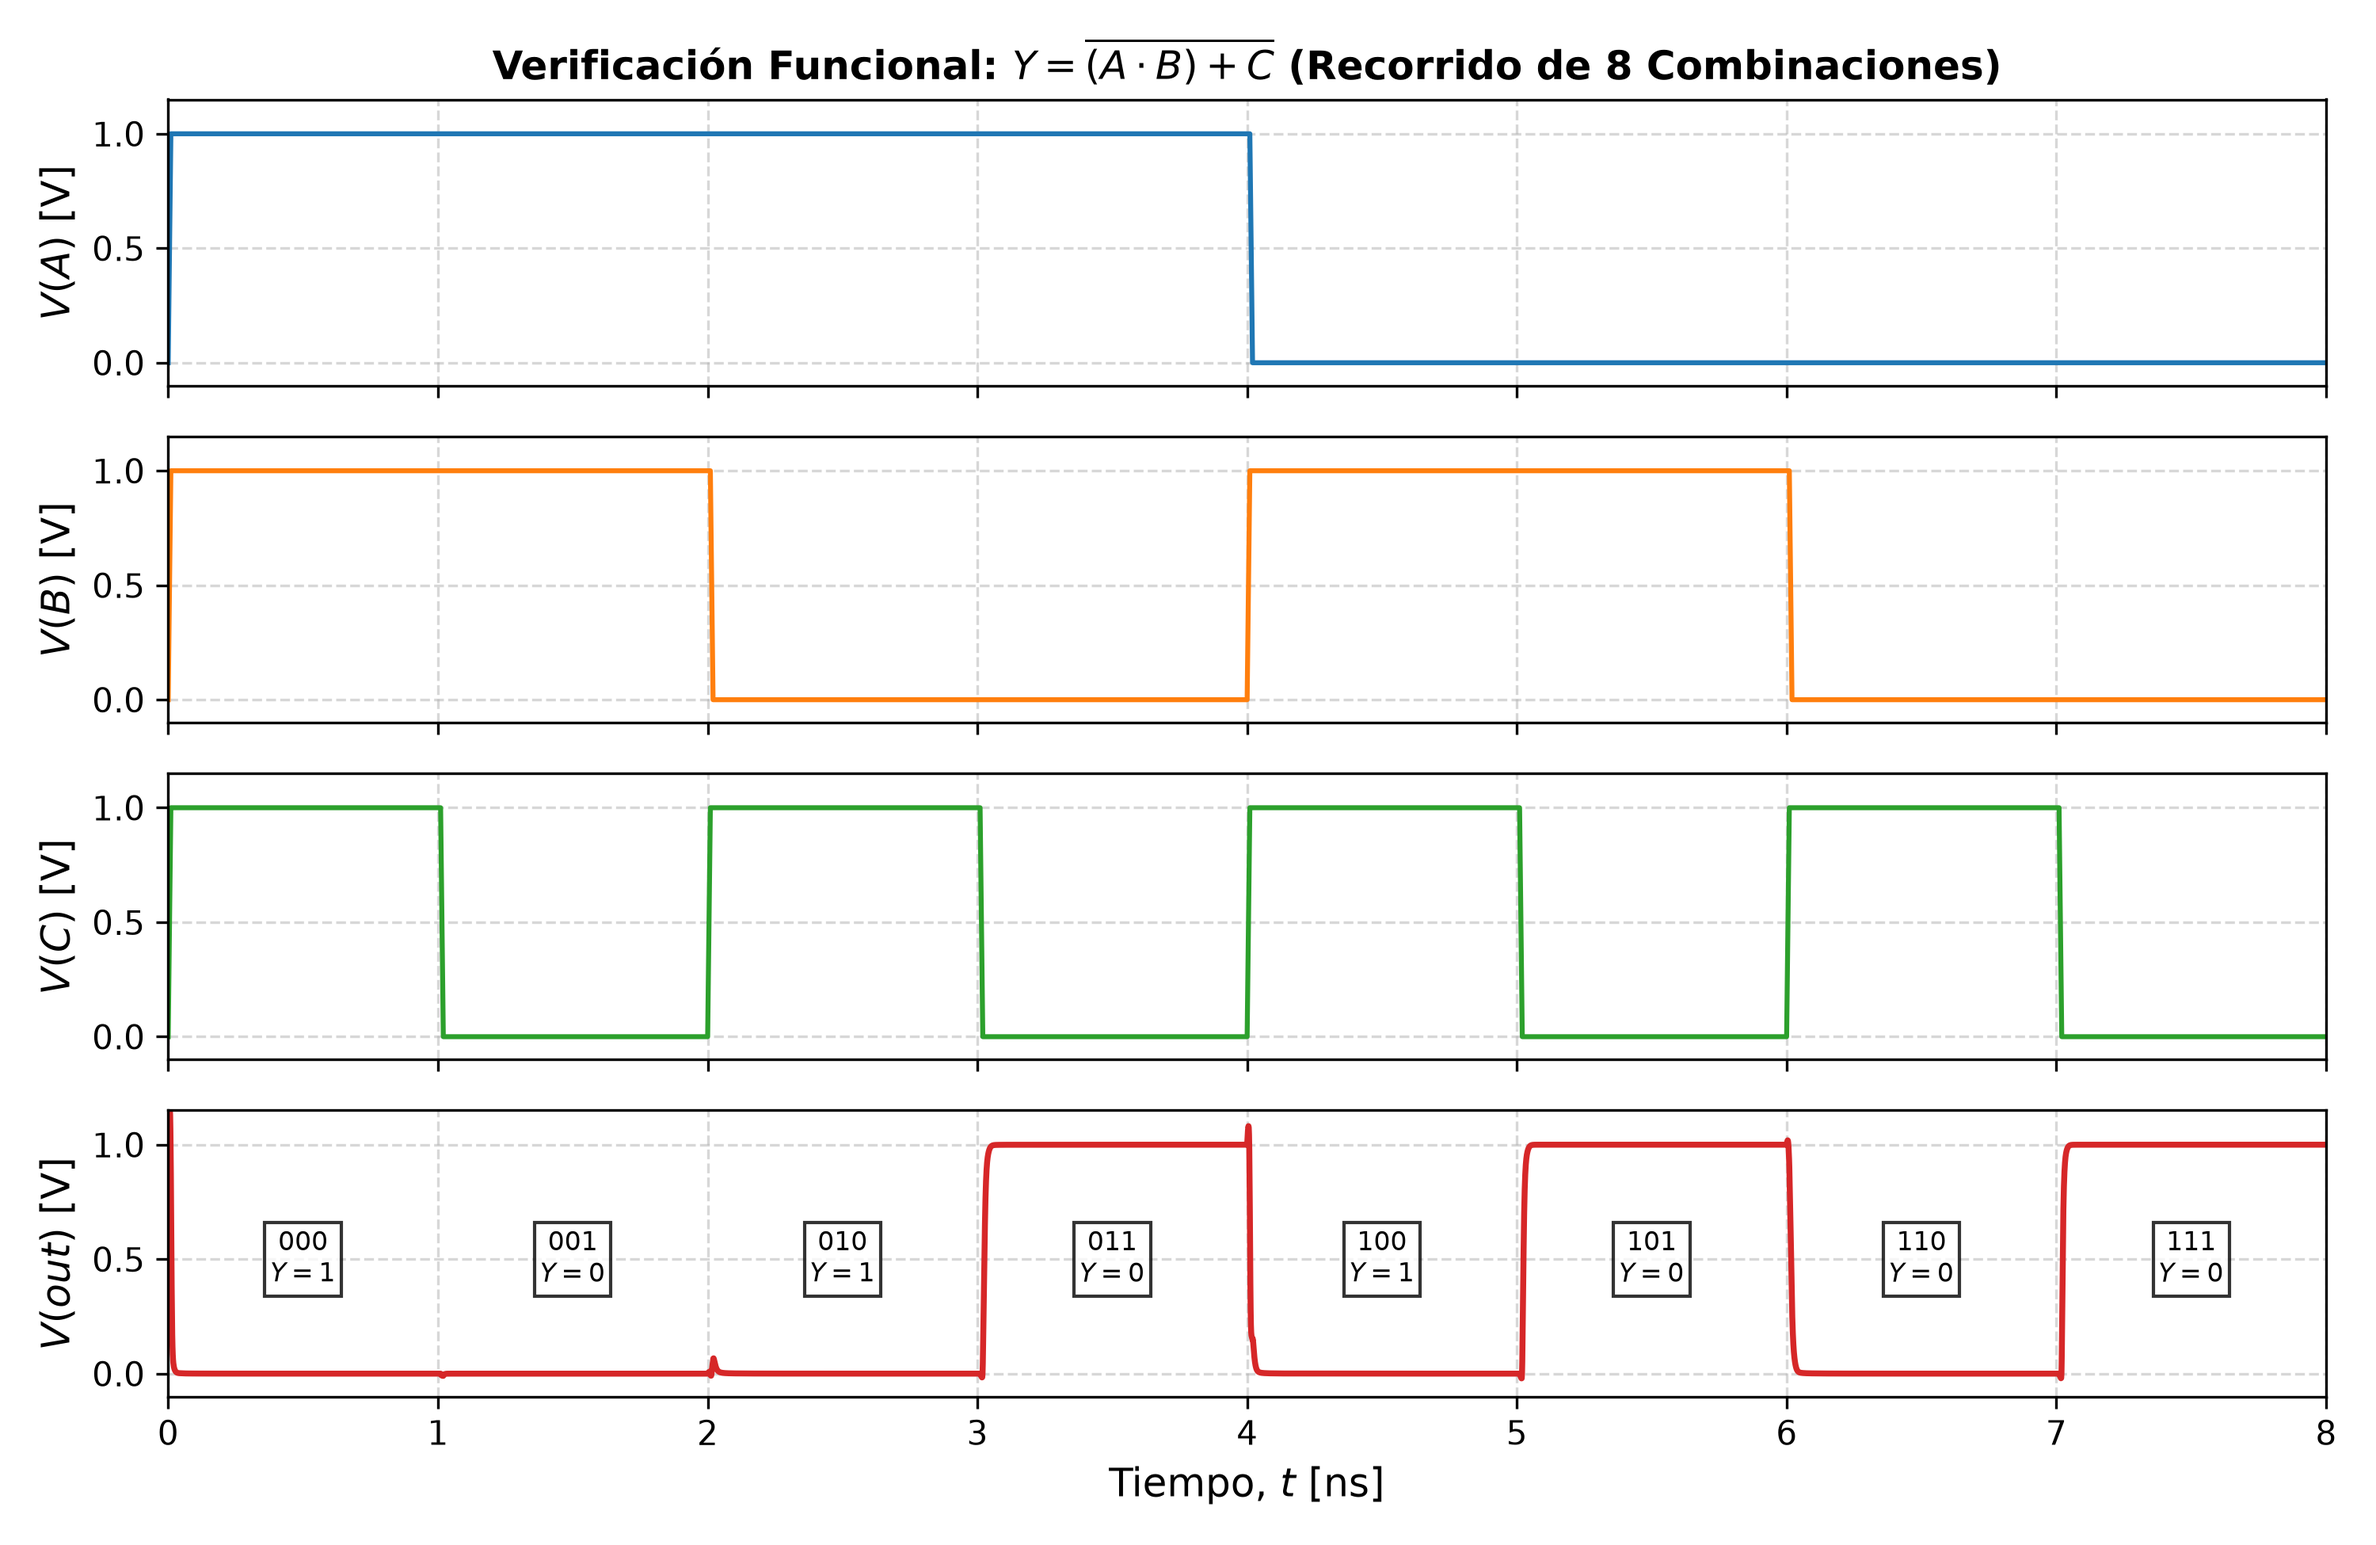
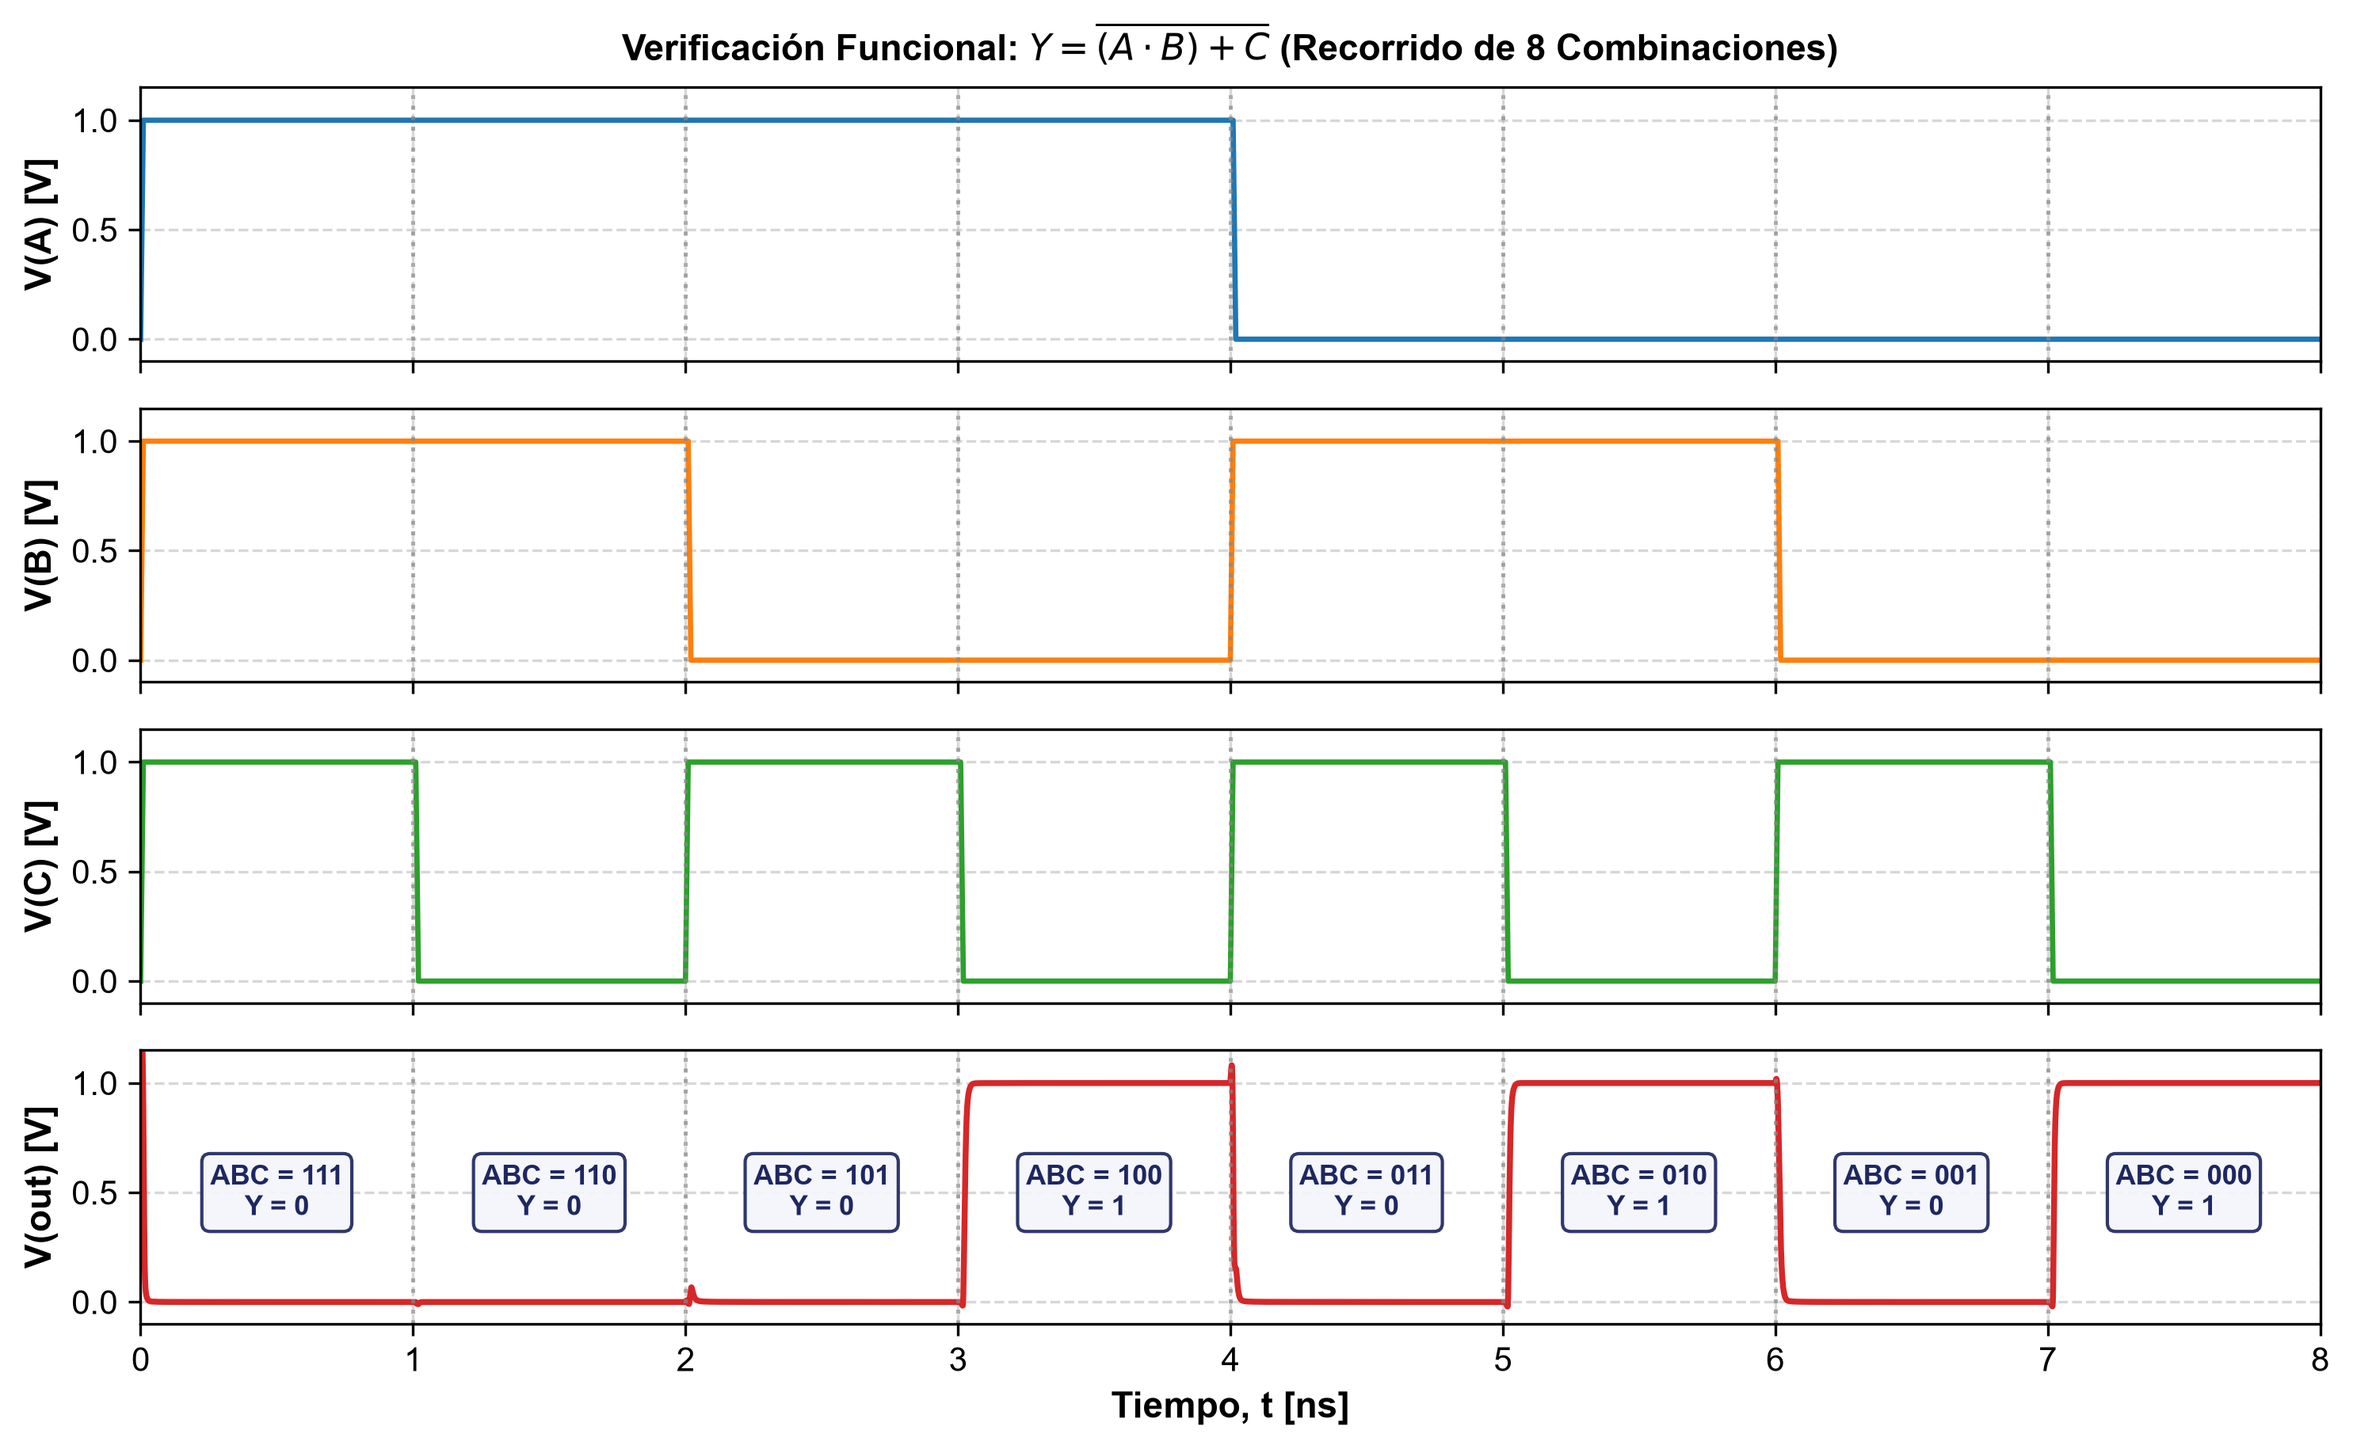
fix(actividad4): corregir rotulacion de estados en fig3 y aclarar limitacion del estimulo para tpHL peor caso

diff --git a/LD1_Arcila_Yactayo/scripts/generar_fig3.py b/LD1_Arcila_Yactayo/scripts/generar_fig3.py
@@ -1,0 +1,91 @@
+import os
+import matplotlib.pyplot as plt
+
+plt.rcParams.update({
+    'font.family': 'sans-serif',
+    'font.sans-serif': ['Arial', 'DejaVu Sans', 'Helvetica'],
+    'font.size': 10,
+    'axes.labelsize': 11,
+    'axes.titlesize': 11,
+    'figure.titlesize': 13,
+    'figure.autolayout': True,
+    'grid.alpha': 0.5,
+    'grid.linestyle': '--'
+})
+
+output_dir = r"G:\Proyectos\MicroNano\LD1_Arcila_Yactayo\informe_latex\figuras"
+cg_raw = r"G:\Proyectos\MicroNano\LD1_Arcila_Yactayo\simulaciones\A4_Compuerta_Compleja\A4_ComplexGate.raw"
+
+with open(cg_raw, 'r', errors='ignore') as f:
+    cg_lines = f.readlines()
+
+val_idx = 0
+for idx, line in enumerate(cg_lines):
+    if line.startswith('Values:'):
+        val_idx = idx + 1
+        break
+
+cg_data = cg_lines[val_idx:]
+t_list, va_list, vb_list, vc_list, vout_list = [], [], [], [], []
+
+i = 0
+while i < len(cg_data):
+    parts = cg_data[i].split()
+    if len(parts) >= 2:
+        t_val = float(parts[1])
+        va_val = float(cg_data[i+1].split()[0])
+        vb_val = float(cg_data[i+2].split()[0])
+        vc_val = float(cg_data[i+3].split()[0])
+        vout_val = float(cg_data[i+4].split()[0])
+        
+        t_list.append(t_val * 1e9)
+        va_list.append(va_val)
+        vb_list.append(vb_val)
+        vc_list.append(vc_val)
+        vout_list.append(vout_val)
+        i += 7
+    else:
+        i += 1
+
+fig, axs = plt.subplots(4, 1, figsize=(10, 6.2), sharex=True, dpi=300)
+
+axs[0].plot(t_list, va_list, color='#1f77b4', linewidth=1.6)
+axs[0].set_ylabel('V(A) [V]', fontweight='bold')
+axs[0].set_ylim(-0.1, 1.15)
+axs[0].grid(True)
+axs[0].set_title(r'Verificación Funcional: $Y = \overline{(A \cdot B) + C}$ (Recorrido de 8 Combinaciones)', fontweight='bold', pad=8)
+
+axs[1].plot(t_list, vb_list, color='#ff7f0e', linewidth=1.6)
+axs[1].set_ylabel('V(B) [V]', fontweight='bold')
+axs[1].set_ylim(-0.1, 1.15)
+axs[1].grid(True)
+
+axs[2].plot(t_list, vc_list, color='#2ca02c', linewidth=1.6)
+axs[2].set_ylabel('V(C) [V]', fontweight='bold')
+axs[2].set_ylim(-0.1, 1.15)
+axs[2].grid(True)
+
+axs[3].plot(t_list, vout_list, color='#d62728', linewidth=1.8)
+axs[3].set_ylabel('V(out) [V]', fontweight='bold')
+axs[3].set_ylim(-0.1, 1.15)
+axs[3].set_xlabel('Tiempo, t [ns]', fontweight='bold')
+axs[3].grid(True)
+
+estados = ['111', '110', '101', '100', '011', '010', '001', '000']
+y_esperados = [0, 0, 0, 1, 0, 1, 0, 1]
+
+for ax in axs:
+    for t_div in range(1, 8):
+        ax.axvline(t_div, color='#888888', linestyle=':', alpha=0.7, linewidth=1.2)
+
+for idx, (est, y_esp) in enumerate(zip(estados, y_esperados)):
+    t_center = idx + 0.5
+    axs[3].text(t_center, 0.5, f'ABC = {est}\nY = {y_esp}', ha='center', va='center',
+                fontsize=8.5, fontweight='bold', color='#1E2761',
+                bbox=dict(boxstyle='round,pad=0.3', facecolor='#F4F6FB', edgecolor='#1E2761', alpha=0.92, lw=1.0))
+
+plt.xlim(0, 8.0)
+out_path = os.path.join(output_dir, 'fig3_transitorio_compleja.png')
+plt.savefig(out_path, bbox_inches='tight')
+plt.close()
+print("Guardado con exito fig3_transitorio_compleja.png")

diff --git a/LD1_Arcila_Yactayo/informe_latex/LD1.tex b/LD1_Arcila_Yactayo/informe_latex/LD1.tex
@@ -458,16 +458,17 @@ Se sintetiza la función inversora $Y = \overline{(A \cdot B) + C}$ mediante ló
 \FloatBarrier
 
 \subsection*{Verificación funcional y casos críticos de retardo}
-Se verificó el barrido de las ocho combinaciones de entrada en 8~ns (Figura~\ref{fig:compleja}):
+La Figura~\ref{fig:compleja} presenta el barrido de las ocho combinaciones de entrada en 8~ns ($111$ a $000$) según el Anexo~\ref{sec:a4}, verificando rigurosamente la tabla de verdad ($Y=1$ únicamente para $100$, $010$ y $000$):
 \begin{itemize}[leftmargin=1.6em,itemsep=0.2em]
-  \item \textbf{Peor caso de descarga ($t_{pHL}$):} Transición hacia $ABC = 110$ ($t_{pHL} = 10.42$~ps), donde la corriente fluye exclusivamente por la rama serie $MN_A - MN_B$ a través del nodo intermedio $n_{ab}$. El mejor caso ocurre en $ABC = 111$ ($t_{pHL} = 5.86$~ps) al descargar por ambas ramas en paralelo.
-  \item \textbf{Peor caso de carga ($t_{pLH}$):} Transición donde conduce un único PMOS de la rama paralela en serie con $C$ ($ABC = 010$ o $100$, $t_{pLH} = 11.18$~ps). El mejor caso ocurre en $ABC = 000$ ($t_{pLH} = 8.74$~ps) con $MP_A$ y $MP_B$ conduciendo simultáneamente.
+  \item \textbf{Peor caso de carga ($t_{pLH}$):} Se mide directamente en la conmutación de $t = 3\text{~ns}$ ($101 \to 100$, $t_{pLH} = 9.27$~ps) y $t = 5\text{~ns}$ ($011 \to 010$, $t_{pLH} = 7.84$~ps), donde la corriente fluye por el camino más resistivo de la PUN ($MP_C$ en serie con un solo PMOS en paralelo). El mejor caso ocurre en $t = 7\text{~ns}$ ($001 \to 000$, $t_{pLH} = 6.47$~ps) al conducir ambas ramas PMOS en paralelo.
+  \item \textbf{Análisis crítico de descarga ($t_{pHL}$):} El peor caso teórico ocurre al descargar exclusivamente por la rama serie $MN_A - MN_B$ ($ABC = 110$). Sin embargo, en el barrido continuo del Anexo~\ref{sec:a4}, el estado $110$ es precedido por $111$, por lo que la salida ya se encontraba en 0~V y no existe transición de bajada en esa ventana. Las caídas observadas en el barrido ($t = 4\text{~ns}$ y $t = 6\text{~ns}$) descargan por el transistor rápido $MN_C$ ($t_{pHL} = 6.92$~ps y $10.43$~ps).
+  \item \textbf{Medición dedicada del peor caso $t_{pHL}$:} Excitando un escalón hacia $110$ desde un estado alto previo ($010 \to 110$ o $100 \to 110$), la descarga fluye exclusivamente por la rama serie, obteniéndose $t_{pHL} = 13.19$~ps para la entrada externa ($A$) y $t_{pHL} = 14.39$~ps para la interna ($B$, penalizada por la precarga del nodo intermedio $n_{ab}$ y efecto cuerpo en $MN_A$).
 \end{itemize}
 
 \begin{figure}[htbp]
 \centering
 \includegraphics[width=0.74\textwidth]{figuras/fig3_transitorio_compleja.png}
-\caption{Respuesta transitoria de la compuerta compleja $Y = \overline{(A \cdot B) + C}$ ante el barrido de las 8 combinaciones binarias ($000$ a $111$) en 8~ns.}
+\caption{Respuesta transitoria de la compuerta compleja $Y = \overline{(A \cdot B) + C}$ ante el barrido de las 8 combinaciones binarias ($111$ a $000$) en 8~ns.}
 \label{fig:compleja}
 \end{figure}
 \FloatBarrier

diff --git a/LD1_Arcila_Yactayo/scripts/generar_graficas.py b/LD1_Arcila_Yactayo/scripts/generar_graficas.py
@@ -30,8 +30,8 @@ os.makedirs(output_dir, exist_ok=True)
 def read_raw_lines(path):
     with open(path, 'rb') as f:
         raw_bytes = f.read()
-    if len(raw_bytes) > 2 and raw_bytes[1] == 0:
-        return raw_bytes.decode('utf-16le').splitlines(True)
+    if b'\x00' in raw_bytes[:100]:
+        return raw_bytes.decode('utf-16le', errors='ignore').splitlines(True)
     return raw_bytes.decode('utf-8', errors='ignore').splitlines(True)
 
 # -------------------------------------------------------------
@@ -203,16 +203,22 @@ axs[3].set_ylim(-0.1, 1.15)
 axs[3].set_xlabel('Tiempo, $t$ [ns]')
 axs[3].grid(True)
 
-# Anotaciones de estados
-estados = ["000", "001", "010", "011", "100", "101", "110", "111"]
-y_esperados = [1, 0, 1, 0, 1, 0, 0, 0]
+# Anotaciones de estados y separadores verticales sincronizados
+estados = ["111", "110", "101", "100", "011", "010", "001", "000"]
+y_esperados = [0, 0, 0, 1, 0, 1, 0, 1]
+
+for ax in axs:
+    for t_div in range(1, 8):
+        ax.axvline(t_div, color='gray', linestyle=':', alpha=0.6, linewidth=1.0)
+
 for idx, (est, y_esp) in enumerate(zip(estados, y_esperados)):
     t_center = idx + 0.5
-    axs[3].text(t_center, 0.5, f'{est}\n$Y={y_esp}$', ha='center', va='center',
-                fontsize=8, bbox=dict(boxstyle='square,pad=0.2', facecolor='white', alpha=0.8))
+    axs[3].text(t_center, 0.5, f'$ABC={est}$\n$Y={y_esp}$', ha='center', va='center',
+                fontsize=8, fontweight='bold',
+                bbox=dict(boxstyle='round,pad=0.25', facecolor='#F4F6FB', edgecolor='#1E2761', alpha=0.9))
 
 plt.xlim(0, 8.0)
-plt.savefig(os.path.join(output_dir, "fig3_transitorio_compleja.png"))
+plt.savefig(os.path.join(output_dir, "fig3_transitorio_compleja.png"), bbox_inches='tight')
 plt.close()
 
 # -------------------------------------------------------------
